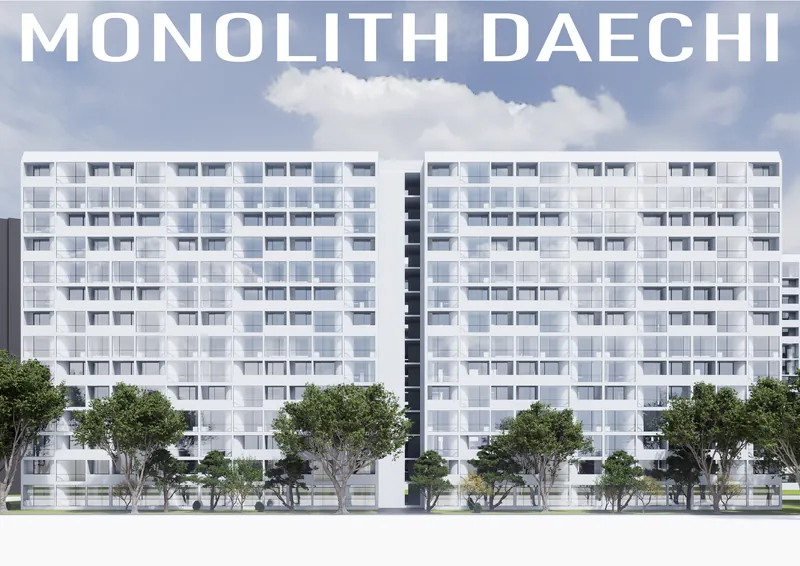
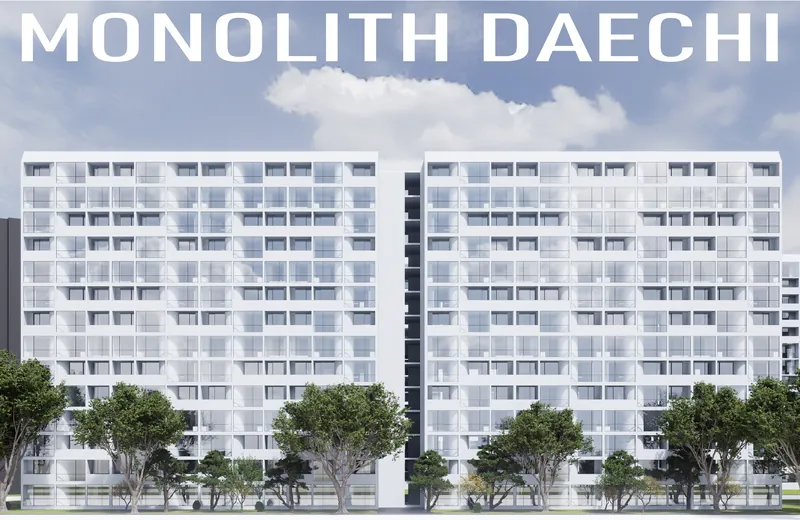
Add Folded Green (2022) to WORK, reset bg on hover-out, trim Monolith thumbnail
- Add Folded Green (2022) after Bloom from the Abyss, model-photo thumbnail, hover-only
- Leaving a WORK row fades the background back to white
- Crop the empty white strip from the bottom of the Monolith Daechi thumbnail

diff --git a/script.js b/script.js
@@ -16,6 +16,7 @@ const workProjects = [
     { title: "Monolith Daechi", year: "2026", image: "thumbs/monolith-daechi.webp", noClick: true },
     { title: "Shaping Shade: A Community Center in Rural Casamance", year: "2026", image: "thumbs/last.webp", full: "last.jpg" },
     { title: "Bloom from the Abyss", year: "2025", image: "thumbs/test.webp", full: "test.jpg" },
+    { title: "Folded Green", year: "2022", image: "thumbs/folded-green.webp", noClick: true },
     { title: "apple", year: "apple", image: "thumbs/IMG_0971.webp", full: "IMG_0971.JPEG" },
     { title: "apple", year: "apple", image: "thumbs/IMG_1228.webp", full: "IMG_1228.JPEG" },
     { title: "apple", year: "apple", image: "thumbs/IMG_1787.webp", full: "IMG_1787.JPEG" },
@@ -283,7 +284,10 @@ function renderWorkList(contentArea, openIndex = null) {
             show();
             setBg(colors[i]);
         });
-        li.addEventListener('mouseleave', hide);
+        li.addEventListener('mouseleave', () => {
+            hide();
+            if (!isOut()) setBg('#fff', false); // 호버를 치우면 하양으로. 옆 줄로 옮기면 곧바로 그 줄 색으로 이어서 바뀜
+        });
         li.addEventListener('touchstart', () => setBg(colors[i]), { passive: true }); // 모바일: 썸네일 없이 배경색만
         if (!p.href && !p.noClick) li.querySelector('.work-link').addEventListener('click', () => openProject(i));
     });
